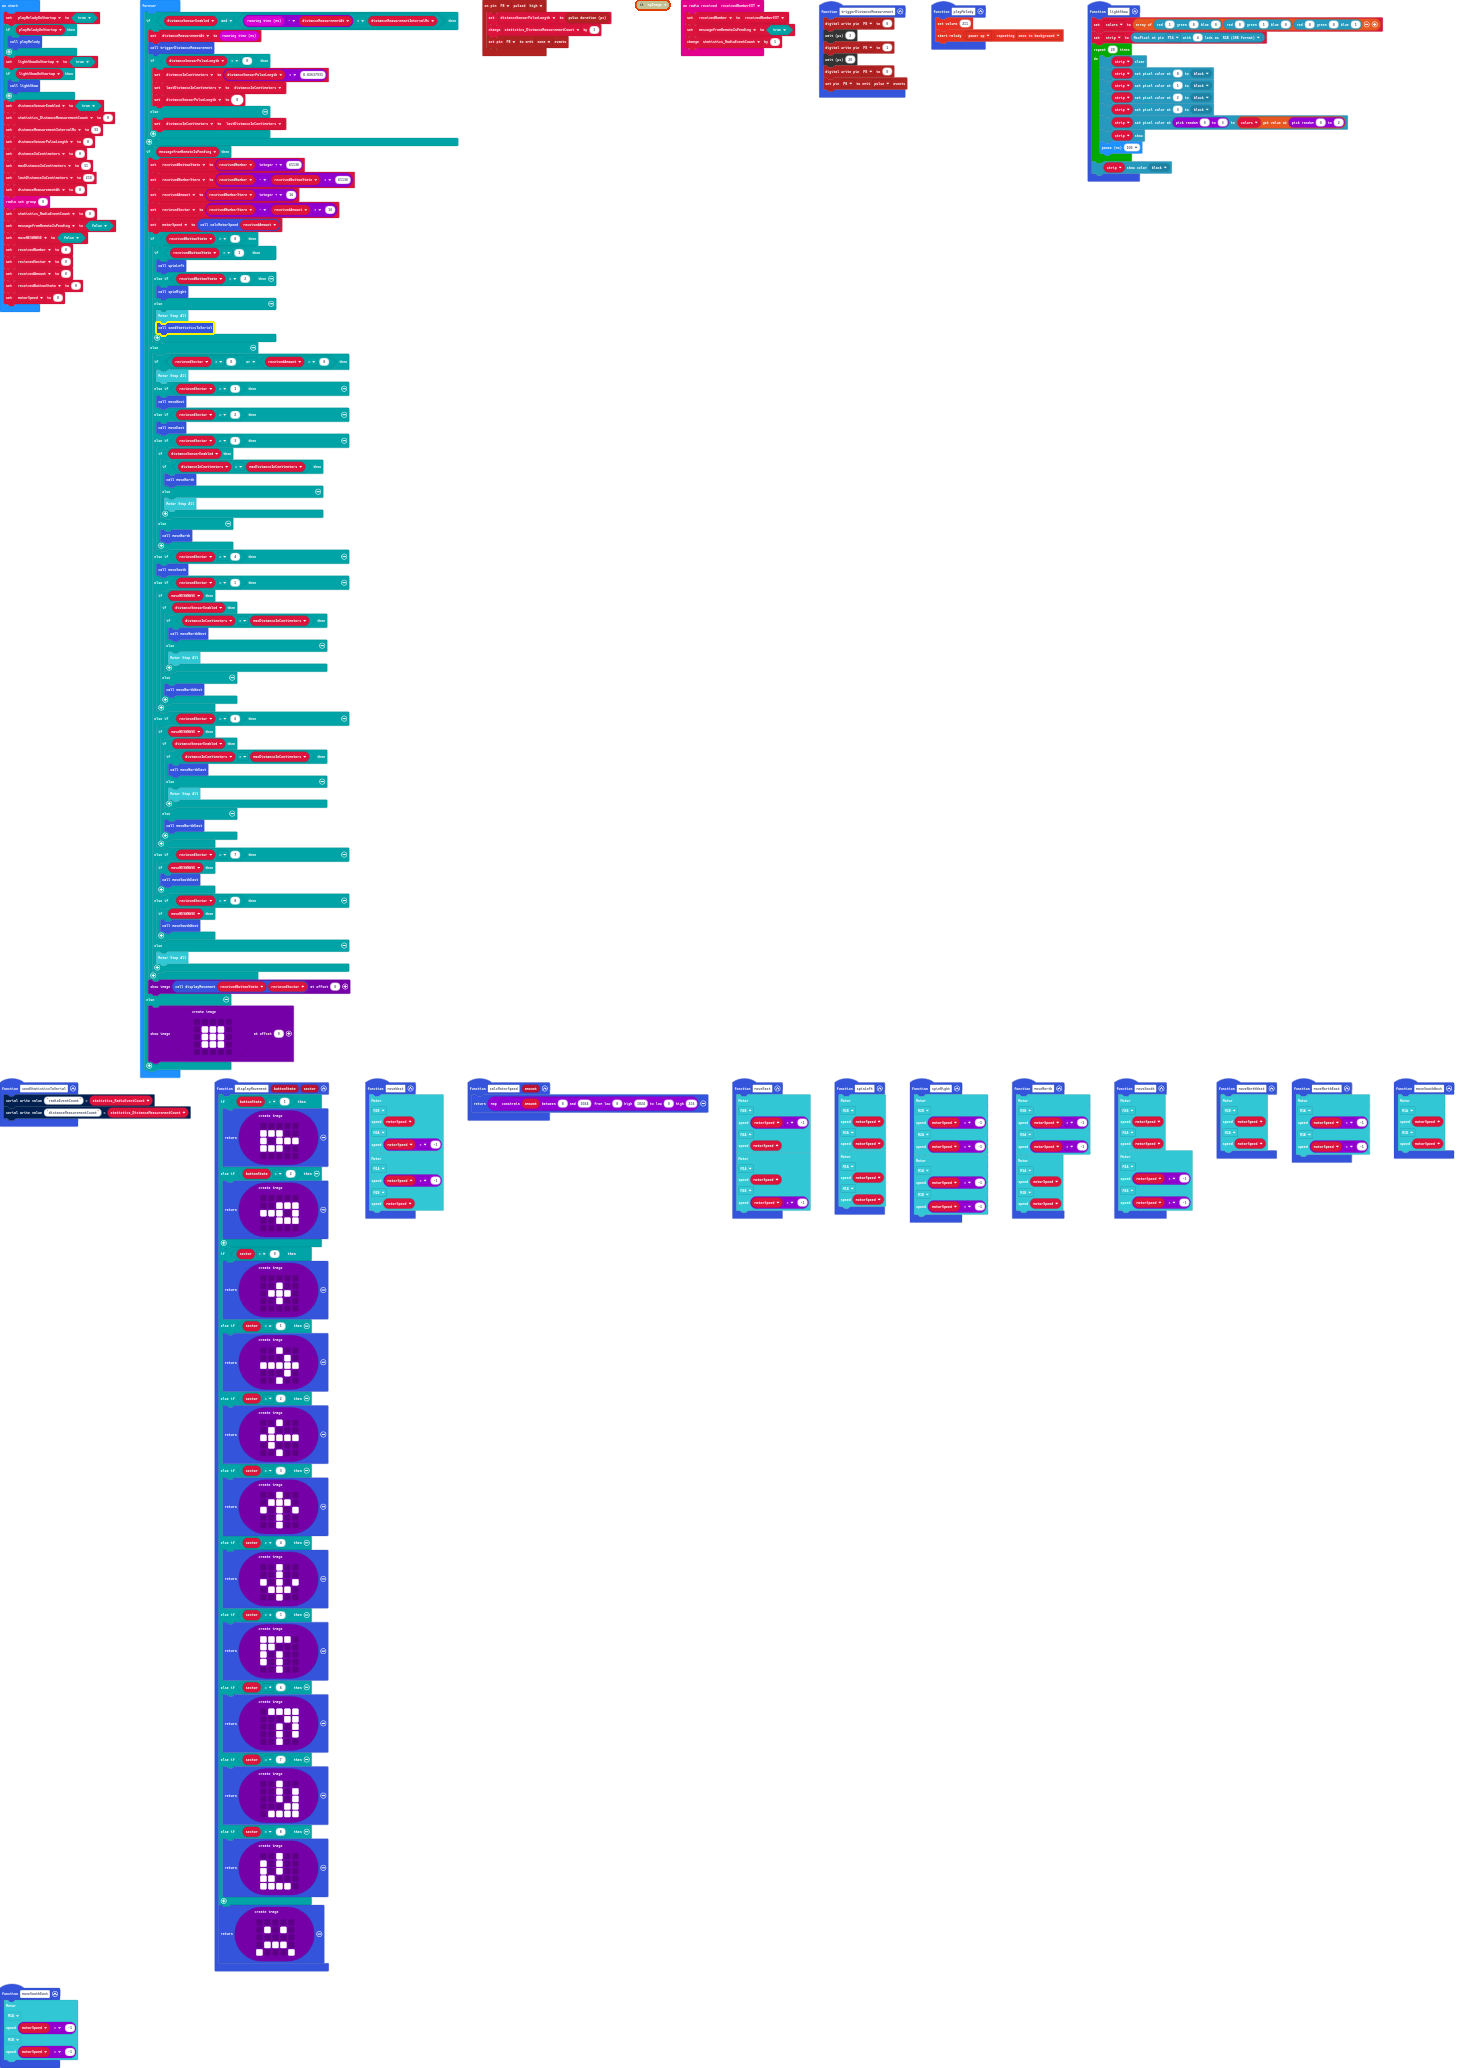
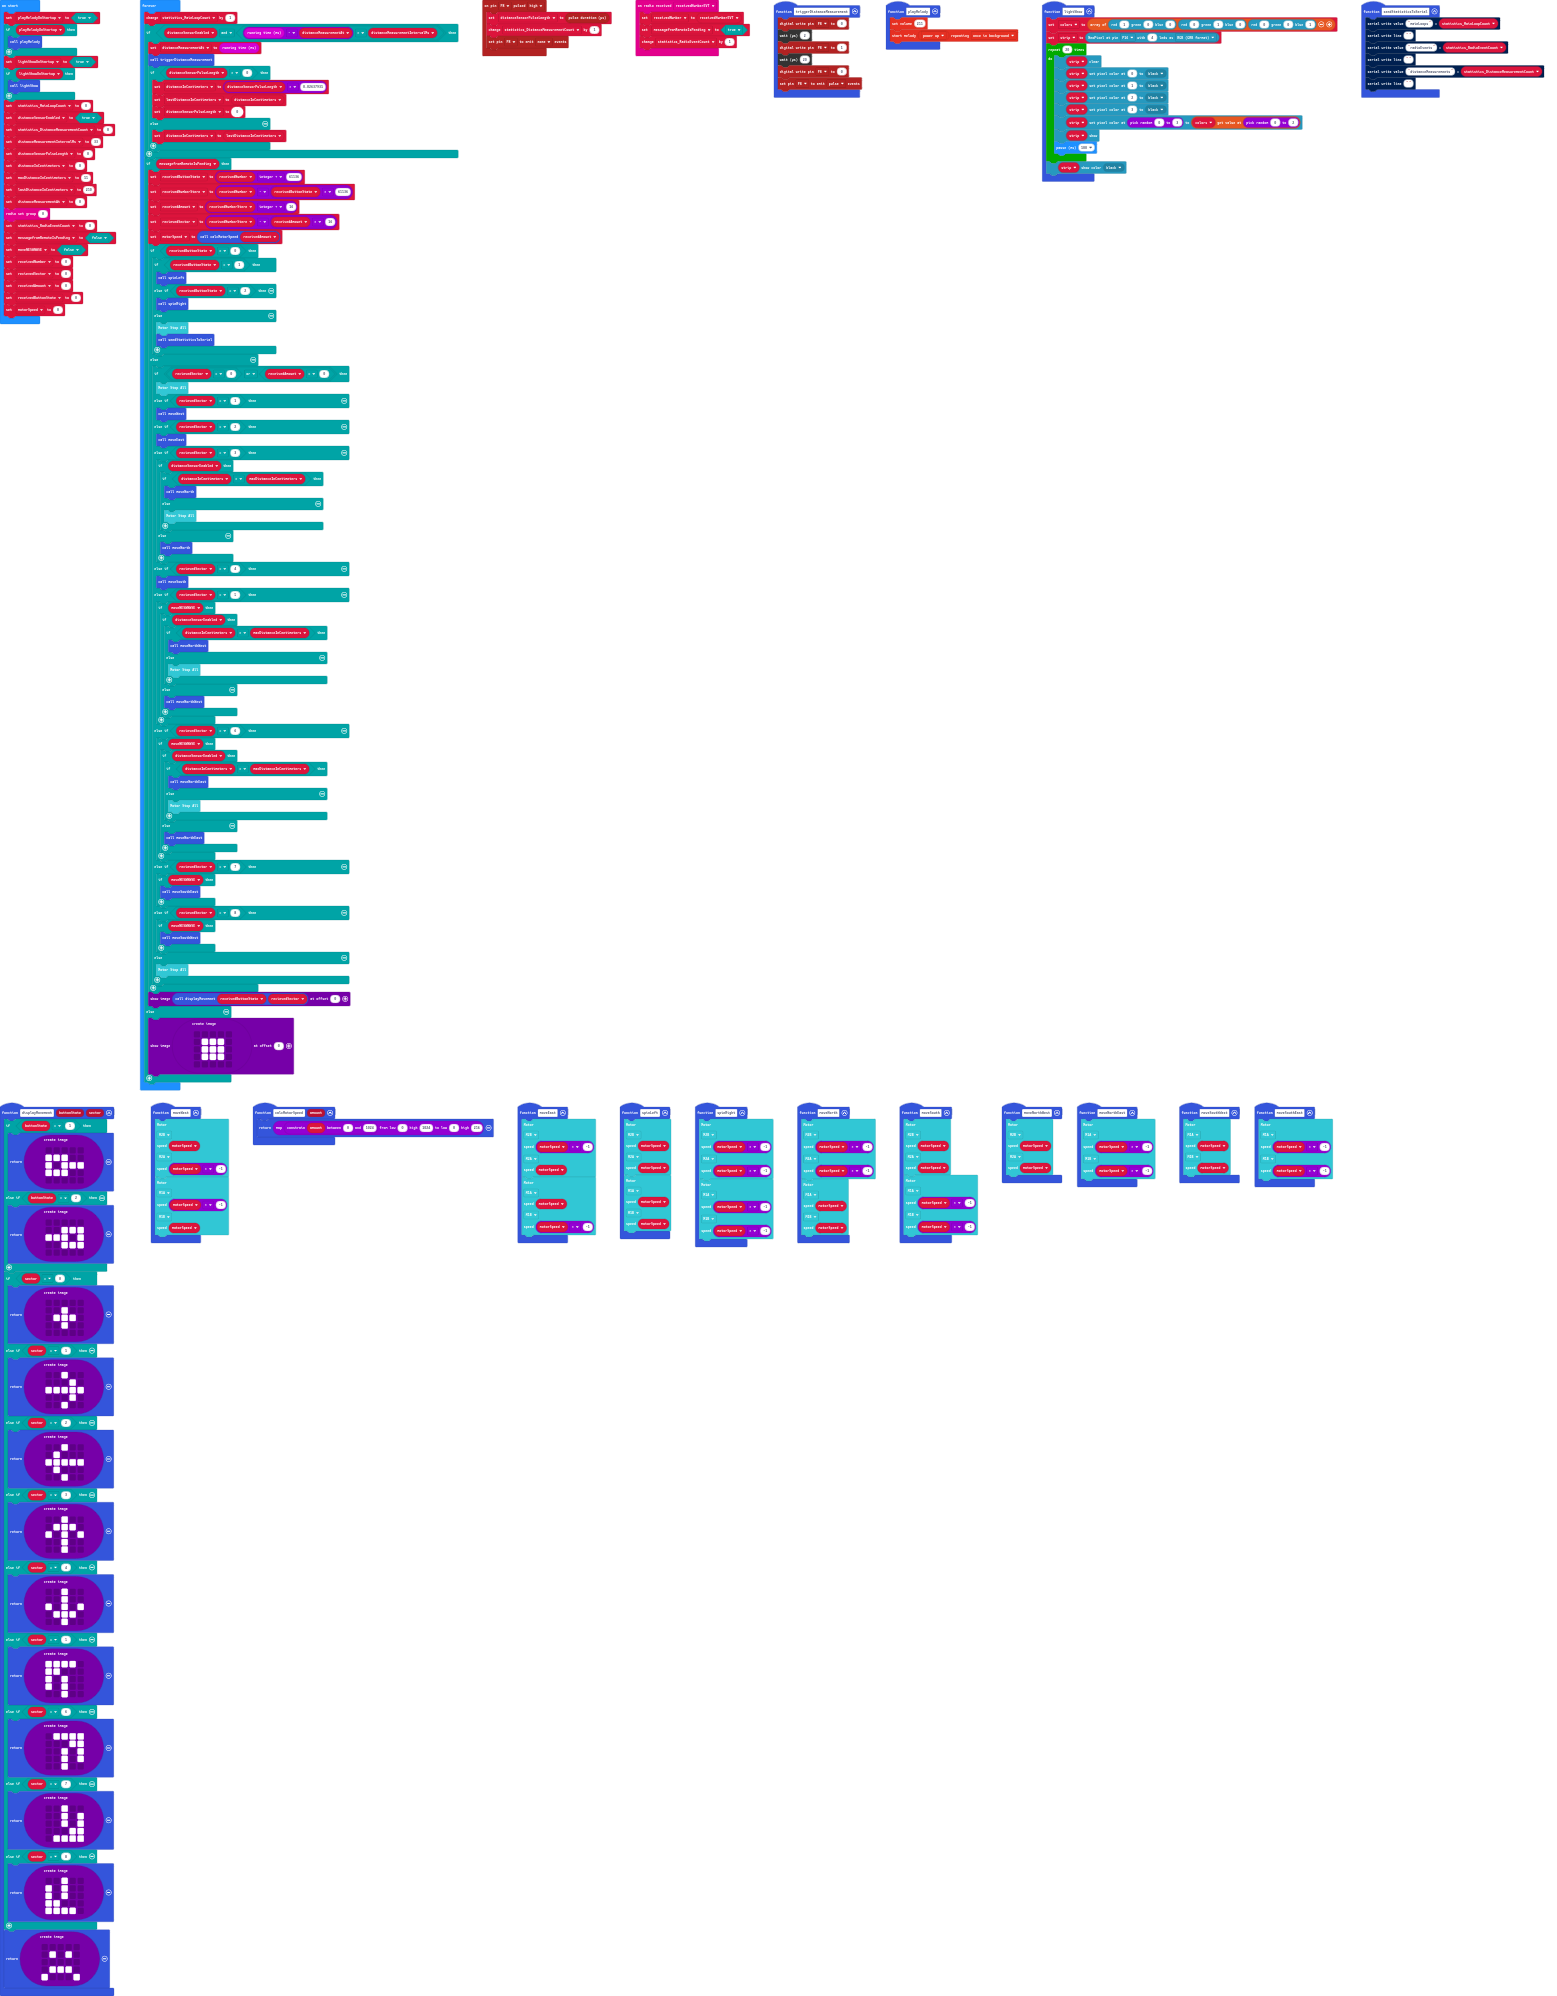
Add more Statistics...

Changed region(s): [[0.0, 0.0, 1.0, 1.0]]

diff --git a/main.ts b/main.ts
@@ -29,8 +29,12 @@ function moveEast () {
     )
 }
 function sendStatisticsToSerial () {
-    serial.writeValue("radioEventCount", statistics_RadioEventCount)
-    serial.writeValue("distanceMeasurementCount", statistics_DistanceMeasurementCount)
+    serial.writeValue("mainLoops", statistics_MainLoopCount)
+    serial.writeLine("")
+    serial.writeValue("radioEvents", statistics_RadioEventCount)
+    serial.writeLine("")
+    serial.writeValue("distanceMeasurements", statistics_DistanceMeasurementCount)
+    serial.writeLine("")
 }
 function spinLeft () {
     robotbit.MotorRunDual(
@@ -266,6 +270,7 @@ let messagefromRemoteIsPending = false
 let statistics_RadioEventCount = 0
 let distanceSensorPulseLength = 0
 let statistics_DistanceMeasurementCount = 0
+let statistics_MainLoopCount = 0
 let playMelodyOnStartup = true
 if (playMelodyOnStartup) {
     playMelody()
@@ -274,6 +279,7 @@ let lightShowOnStartup = true
 if (lightShowOnStartup) {
     lightShow()
 }
+statistics_MainLoopCount = 0
 let distanceSensorEnabled = true
 statistics_DistanceMeasurementCount = 0
 let distanceMeasurementIntervalMs = 33
@@ -292,6 +298,7 @@ let receivedAmount = 0
 let receivedButtonState = 0
 motorSpeed = 0
 basic.forever(function () {
+    statistics_MainLoopCount += 1
     if (distanceSensorEnabled && input.runningTime() - distanceMeasurementAt > distanceMeasurementIntervalMs) {
         distanceMeasurementAt = input.runningTime()
         triggerDistanceMeasurement()
